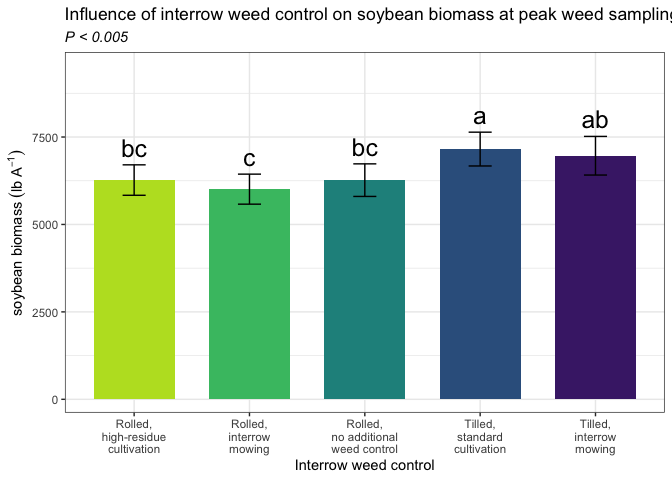
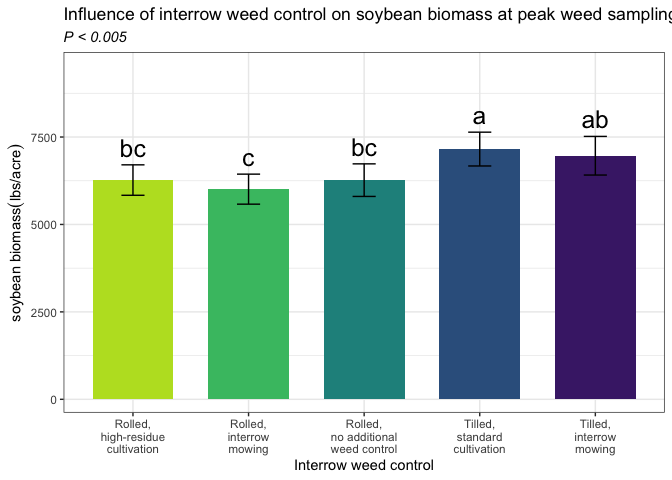
boom

diff --git a/rmarkdowns/bean_biomass.md b/rmarkdowns/bean_biomass.md
@@ -51,14 +51,14 @@ combined_raw <- read_excel("~/Github/Mowtivation/raw-data/All Treatments/combine
 kable(head(combined_raw))
 ```
 
-| id | location | year | treatment | block | plot | bean_emergence | bean_biomass | intrarow_weed_biomass | interrow_weed_biomass | weed_biomass | bean_population | bean_yield |
-|:---|:---|---:|:---|---:|---:|---:|---:|---:|---:|---:|:---|:---|
-| CU_B1_P101 | field x | 2023 | TIM | 1 | 101 | 46.5 | 223.740 | 19.000 | 44.490 | 63.490 | 34.5 | 417.21 |
-| CU_B1_P102 | field x | 2023 | TIC | 1 | 102 | 42.5 | 267.460 | 30.975 | 0.720 | 31.695 | 39.5 | 565.54 |
-| CU_B1_P103 | field x | 2023 | RIM | 1 | 103 | 36.5 | 217.890 | 0.950 | 6.890 | 3.920 | 37.5 | 449.93 |
-| CU_B1_P104 | field x | 2023 | RNO | 1 | 104 | 41.0 | 207.675 | 0.660 | 45.735 | 46.395 | 35 | 412.59 |
-| CU_B1_P105 | field x | 2023 | RIC | 1 | 105 | 41.0 | 230.285 | 0.495 | 22.025 | 22.520 | 39 | 473.79 |
-| CU_B1_P201 | field x | 2023 | RIC | 2 | 201 | 36.5 | 208.105 | 6.395 | 19.460 | 25.855 | 33.5 | 484.04 |
+| id | location | year | treatment | block | plot | bean_emergence | bean_biomass | intrarow_weed_biomass | interrow_weed_biomass | weed_biomass | bean_population | bean_yield | seed_weight |
+|:---|:---|---:|:---|---:|---:|---:|---:|---:|---:|---:|:---|:---|:---|
+| CU_B1_P101 | field x | 2023 | TIM | 1 | 101 | 46.5 | 223.740 | 19.000 | 44.490 | 63.490 | 34.5 | 417.21 | 17.119999999999997 |
+| CU_B1_P102 | field x | 2023 | TIC | 1 | 102 | 42.5 | 267.460 | 30.975 | 0.720 | 31.695 | 39.5 | 565.54 | 17.475000000000001 |
+| CU_B1_P103 | field x | 2023 | RIM | 1 | 103 | 36.5 | 217.890 | 0.950 | 6.890 | 3.920 | 37.5 | 449.93 | 16.752499999999998 |
+| CU_B1_P104 | field x | 2023 | RNO | 1 | 104 | 41.0 | 207.675 | 0.660 | 45.735 | 46.395 | 35 | 412.59 | 16.145 |
+| CU_B1_P105 | field x | 2023 | RIC | 1 | 105 | 41.0 | 230.285 | 0.495 | 22.025 | 22.520 | 39 | 473.79 | 17.047499999999999 |
+| CU_B1_P201 | field x | 2023 | RIC | 2 | 201 | 36.5 | 208.105 | 6.395 | 19.460 | 25.855 | 33.5 | 484.04 | 17.149999999999999 |
 
 \#Clean data
 
@@ -78,14 +78,14 @@ bean_biomass_clean <-clean_combined |>
 kable(head(bean_biomass_clean)) 
 ```
 
-| id | location | year | weed_control | block | plot | bean_emergence | bean_biomass | intrarow_weed_biomass | interrow_weed_biomass | weed_biomass | bean_population | bean_yield | bean_biomass_grams_meter | bean_biomass_kg_ha | bean_biomass_lbs_ac |
-|:---|:---|:---|:---|:---|:---|---:|---:|---:|---:|---:|:---|:---|---:|---:|---:|
-| CU_B1_P101 | field x | 2023 | TIM | 1 | 101 | 46.5 | 223.740 | 19.000 | 44.490 | 63.490 | 34.5 | 417.21 | 447.48 | 4474.8 | 3992.323 |
-| CU_B1_P102 | field x | 2023 | TIC | 1 | 102 | 42.5 | 267.460 | 30.975 | 0.720 | 31.695 | 39.5 | 565.54 | 534.92 | 5349.2 | 4772.444 |
-| CU_B1_P103 | field x | 2023 | RIM | 1 | 103 | 36.5 | 217.890 | 0.950 | 6.890 | 3.920 | 37.5 | 449.93 | 435.78 | 4357.8 | 3887.938 |
-| CU_B1_P104 | field x | 2023 | RNO | 1 | 104 | 41.0 | 207.675 | 0.660 | 45.735 | 46.395 | 35 | 412.59 | 415.35 | 4153.5 | 3705.665 |
-| CU_B1_P105 | field x | 2023 | RIC | 1 | 105 | 41.0 | 230.285 | 0.495 | 22.025 | 22.520 | 39 | 473.79 | 460.57 | 4605.7 | 4109.109 |
-| CU_B1_P201 | field x | 2023 | RIC | 2 | 201 | 36.5 | 208.105 | 6.395 | 19.460 | 25.855 | 33.5 | 484.04 | 416.21 | 4162.1 | 3713.338 |
+| id | location | year | weed_control | block | plot | bean_emergence | bean_biomass | intrarow_weed_biomass | interrow_weed_biomass | weed_biomass | bean_population | bean_yield | seed_weight | bean_biomass_grams_meter | bean_biomass_kg_ha | bean_biomass_lbs_ac |
+|:---|:---|:---|:---|:---|:---|---:|---:|---:|---:|---:|:---|:---|:---|---:|---:|---:|
+| CU_B1_P101 | field x | 2023 | TIM | 1 | 101 | 46.5 | 223.740 | 19.000 | 44.490 | 63.490 | 34.5 | 417.21 | 17.119999999999997 | 447.48 | 4474.8 | 3992.323 |
+| CU_B1_P102 | field x | 2023 | TIC | 1 | 102 | 42.5 | 267.460 | 30.975 | 0.720 | 31.695 | 39.5 | 565.54 | 17.475000000000001 | 534.92 | 5349.2 | 4772.444 |
+| CU_B1_P103 | field x | 2023 | RIM | 1 | 103 | 36.5 | 217.890 | 0.950 | 6.890 | 3.920 | 37.5 | 449.93 | 16.752499999999998 | 435.78 | 4357.8 | 3887.938 |
+| CU_B1_P104 | field x | 2023 | RNO | 1 | 104 | 41.0 | 207.675 | 0.660 | 45.735 | 46.395 | 35 | 412.59 | 16.145 | 415.35 | 4153.5 | 3705.665 |
+| CU_B1_P105 | field x | 2023 | RIC | 1 | 105 | 41.0 | 230.285 | 0.495 | 22.025 | 22.520 | 39 | 473.79 | 17.047499999999999 | 460.57 | 4605.7 | 4109.109 |
+| CU_B1_P201 | field x | 2023 | RIC | 2 | 201 | 36.5 | 208.105 | 6.395 | 19.460 | 25.855 | 33.5 | 484.04 | 17.149999999999999 | 416.21 | 4162.1 | 3713.338 |
 
 <br> \# Model testing
 
@@ -354,7 +354,7 @@ bean_biomass_clean |>
   stat_summary(geom="text", fun = "MeanPlusSe", aes(label= trimws(.group)),size=6.5,vjust=-0.5) +
   labs(
     x = "Interrow weed control",
-    y = expression("soybean biomass" ~ (lb ~ A^{-1})),
+    y = expression("soybean biomass" (lbs * "/" * acre)),
     title = str_c("Influence of interrow weed control on soybean biomass at peak weed sampling"),
     subtitle = expression(italic("P < 0.005"))) +
   
